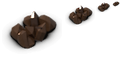
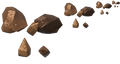
Minerais en jeu : formes blende, cassiterite, ilmenite, monazite (verdict DC) et nouvelles icones ; icone de la cassiterite refaite (pieces posees, icone_cassiterite.py)
Fusion des branches design-minerai-* et design-icone-* ; cles de direction separees
(tas, amas, amas_roches) ; check_gisement 7 OK x4, mutants 10/10.

diff --git a/tools/render/pieces/ressources/icone_cassiterite.py b/tools/render/pieces/ressources/icone_cassiterite.py
@@ -1,0 +1,231 @@
+"""ICÔNES DU MINERAI DE CASSITÉRITE, faites sur la forme C14 (lot MINERAIS, 01/11).
+
+DC (30/10, ~10 h 40) : « je viens de revoir les minerais, changez les icones mais si non c est pas mal ». La forme C14
+(gisement) est acceptée ; son icône (cellule d'icône de feuille.py : UN bloc et ses pépites soudés en une masse brune) ne
+l'était pas : à 32 px, une seule silhouette en gourde, sans jour entre les pièces, quand les icônes vanilla
+(icons/iron-ore.png, coal.png : 64 px + 3 mipmaps) montrent 3 à 5 morceaux SÉPARÉS par un jour sombre qui remplissent
+le cadre. Même démarche que les icônes de l'ilménite (icone_ilmenite.py) : pièces du gisement, mais POSÉES à la main.
+
+Pièces du gisement C14 : blocs trapus de gisement.roche (6 coupes, cassure 0,45 à 0,80, aplat 0,95, lissé 25°) et
+pépites bipyramidales de gisement.bipyramide (habitus de la cassitérite) ; matières C : brun, roux, cuir, ambre ; ciel
+spéculaire × 5 (CALIB C9 à C14). Ajouts propres à l'icône, assumés : pièces posées (jour entre elles), relief de surface
+(grain des icônes vanilla), faces au soleil plus claires que le gisement (cuir, roux) pour que l'icône ne se lise pas en
+tache sombre à 32 px.
+
+Rendu : 4 cellules (icône, puis les 3 images au sol) en UN appel de Blender, PAR LE VERROU, à 256 px par tuile, passe
+main seule ; réduction en lumière linéaire prémultipliée (fo_post.icon_strip) en 64 + 32 + 16 + 8 = 120 x 64 px.
+
+    python tools/render/with_render_lock.py -- py -3.9 tools/render/pieces/ressources/icone_cassiterite.py         --samples 128 --travail <dossier> --sortie <dossier des icônes>
+    # post-traitement seul : --post-seul ; installation dans graphics/ressources/cassiterite : --installer
+"""
+import argparse
+import hashlib
+import json
+import math
+import os
+import random
+import subprocess
+import sys
+import time
+
+HERE = os.path.dirname(os.path.abspath(__file__))
+RENDER = os.path.abspath(os.path.join(HERE, "..", ".."))
+MOD = os.path.abspath(os.path.join(RENDER, "..", ".."))
+for _p in (HERE, RENDER):
+    if _p not in sys.path:
+        sys.path.insert(0, _p)
+
+PIECE = {"name": "icone-cassiterite", "variants": {"C14": {}}, "margin_px": 32}
+PAS_IC = 6.0          # écart entre deux cellules, en tuiles
+PX = 256.0            # pixels par tuile du rendu des icônes
+GRAINE = 7414
+GROS = 1.0           # morceaux grossis (comme l'ilménite : à 32 px, le jour entre les pièces mange le cadre)
+RUGOSITE = 0.16       # éclat adamantin : reflets nets sur les arêtes
+RELIEF = 0.32
+ECART = 1.08          # écarte les positions (jour entre les pièces)
+FICHIERS = ("icone.png", "icone-1.png", "icone-2.png", "icone-3.png")
+# Matières de l'icône : couleurs de directions.MAT, faces au soleil éclaircies pour la lecture à 32 px
+MAT_BLOC = ("cassiterite_brun", "cassiterite_noir", "cassiterite_roux")
+MAT_PEP = ("cassiterite_ambre", "cassiterite_roux", "cassiterite_cuir")
+# Compositions (tuiles de jeu, y vers le sud, relatives au centre de la cellule).
+#   blocs : (x, y, taille, matière, bosse) ; bosse : None ou (angle en degrés, taille relative) d'une bosse soudée ;
+#   pepites : (x, y, longueur, largeur, inclinaison en degrés, azimut en degrés, matière).
+COMPOS = [
+    # icône : 3 blocs en quinconce, 3 pépites bipyramidales plantées entre eux
+    dict(blocs=[(0.17, 0.17, 0.30, 0, (40, 0.55)), (-0.25, -0.20, 0.26, 1, (220, 0.5)), (-0.27, 0.25, 0.21, 2, None)],
+         pepites=[(0.27, -0.25, 0.30, 0.24, 24, 20, 1), (-0.02, -0.04, 0.27, 0.22, 30, 200, 0),
+                  (0.04, 0.34, 0.22, 0.18, 34, 100, 1)]),
+    dict(blocs=[(-0.15, 0.10, 0.28, 1, (160, 0.55)), (0.26, 0.18, 0.22, 0, None), (-0.27, -0.22, 0.18, 2, None)],
+         pepites=[(0.08, -0.24, 0.28, 0.22, 26, 60, 0), (0.30, -0.10, 0.20, 0.17, 30, 250, 2)]),
+    dict(blocs=[(-0.12, 0.10, 0.27, 0, (150, 0.5)), (0.25, 0.14, 0.22, 2, None), (-0.30, -0.19, 0.17, 1, None)],
+         pepites=[(0.06, -0.25, 0.27, 0.21, 28, 300, 1), (0.34, -0.20, 0.19, 0.16, 36, 120, 0),
+                  (-0.02, 0.32, 0.20, 0.17, 32, 20, 2)]),
+    dict(blocs=[(-0.22, -0.18, 0.26, 2, (120, 0.55)), (0.26, -0.10, 0.21, 0, None)],
+         pepites=[(-0.08, 0.27, 0.27, 0.22, 25, 180, 0), (0.22, 0.26, 0.21, 0.17, 33, 330, 1),
+                  (0.03, -0.06, 0.22, 0.18, 30, 90, 2)]),
+]
+
+
+def centre(c):
+    return (PAS_IC * (c - 1.5), 0.0)
+
+
+# ------------------------------------------------------------------------------------------------
+# Blender (pièce lue par tools/render/blender/render_piece.py)
+# ------------------------------------------------------------------------------------------------
+def _matiere(S, D, nom):
+    """Matière du gisement (directions.MAT) + relief de surface par bosselage (grain des icônes vanilla)."""
+    m = D.MAT[nom]
+    mat = S.mat_metal("cas_ic_" + nom, m["color"], rough=min(m["rough"], RUGOSITE), metallic=m["met"], grain=m["grain"],
+                      grain_scale=m["gscale"], dirt=m["dirt"], dirt_distance=0.08)
+    nt = mat.node_tree
+    N, L = nt.nodes, nt.links
+    p = N["Principled BSDF"]
+    tc = N.new("ShaderNodeTexCoord")
+    nr = N.new("ShaderNodeTexNoise")
+    nr.inputs["Scale"].default_value = 44.0
+    nr.inputs["Detail"].default_value = 8.0
+    nr.inputs["Roughness"].default_value = 0.7
+    L.new(tc.outputs["Object"], nr.inputs["Vector"])
+    vo = N.new("ShaderNodeTexVoronoi")
+    vo.feature = "DISTANCE_TO_EDGE"
+    vo.inputs["Scale"].default_value = 22.0
+    L.new(tc.outputs["Object"], vo.inputs["Vector"])
+    vm = N.new("ShaderNodeMapRange")
+    vm.inputs["From Min"].default_value = 0.0
+    vm.inputs["From Max"].default_value = 0.08
+    L.new(vo.outputs["Distance"], vm.inputs["Value"])
+    ad = N.new("ShaderNodeMath")
+    ad.operation = "MULTIPLY_ADD"
+    L.new(vm.outputs["Result"], ad.inputs[0])
+    ad.inputs[1].default_value = 0.6
+    L.new(nr.outputs["Fac"], ad.inputs[2])
+    bu = N.new("ShaderNodeBump")
+    bu.inputs["Strength"].default_value = RELIEF
+    bu.inputs["Distance"].default_value = 0.012
+    L.new(ad.outputs["Value"], bu.inputs["Height"])
+    L.new(bu.outputs["Normal"], p.inputs["Normal"])
+    return mat
+
+
+def build(S, C, variant):
+    import gisement as G   # noqa: E402  (importe bpy : seulement dans Blender)
+    import directions as D  # noqa: E402
+    cle = "C14"
+    coupes, lisse = D.ROCHE_COUPES[cle], D.ROCHE_LISSE[cle]
+    aplat, cassure = D.ROCHE_APLAT[cle], D.ROCHE_CASSURE[cle]
+    mats = {nom: _matiere(S, D, nom) for nom in sorted(set(MAT_BLOC + MAT_PEP))}
+    for c, compo in enumerate(COMPOS):
+        rng = random.Random(GRAINE * 10 + c)
+        cx, cy = centre(c)
+        for i, (gx, gy, t, mi, b) in enumerate(compo["blocs"]):
+            t = t * GROS
+            gx, gy = gx * ECART, gy * ECART
+            parts = [(gx, gy, t)]
+            if b is not None:
+                a = math.radians(b[0])
+                parts.append((gx + 0.55 * t * math.cos(a), gy + 0.55 * t * math.sin(a) * 0.85, t * b[1]))
+            for j, (px, py, tt) in enumerate(parts):
+                v, f = G.roche(rng, tt, aplat=aplat, n_coupes=coupes, cassure=cassure)
+                incl = math.radians(rng.uniform(0, 14))
+                bx, by, _ = C.tile_to_blender(cx + px, cy + py)
+                vv = G._transforme(v, incl, rng.uniform(0, 2 * math.pi), bx, by, -0.25 * tt * math.sin(incl))
+                G._objet("cas_ic%d_b%d_%d" % (c, i, j), vv, f, mats[MAT_BLOC[mi]], S, lisse)
+        for k, (gx, gy, L, larg, incl, az, mi) in enumerate(compo["pepites"]):
+            gx, gy = gx * ECART, gy * ECART
+            v, f = G.bipyramide(rng, L * GROS, larg * GROS)
+            bx, by, _ = C.tile_to_blender(cx + gx, cy + gy)
+            vv = G._transforme(v, math.radians(incl), math.radians(az), bx, by, -0.02)
+            o = G._objet("cas_ic%d_p%d" % (c, k), vv, f, mats[MAT_PEP[mi]], S)
+            S.bevel(o, 0.008, 1)
+
+
+# ------------------------------------------------------------------------------------------------
+# Python système : rendu par Blender (appelé sous le verrou) et post-traitement
+# ------------------------------------------------------------------------------------------------
+BLENDER = os.environ.get("FO_BLENDER", r"C:\Users\evan2\tools\blender-5.2.2\blender.exe")
+
+
+def rendre(travail, samples):
+    os.makedirs(travail, exist_ok=True)
+    cmd = [BLENDER, "-b", "--factory-startup", "-noaudio", "--python-exit-code", "1",
+           "-P", os.path.join(RENDER, "blender", "render_piece.py"), "--",
+           "--piece", os.path.abspath(__file__), "--out", travail, "--variant", "C14", "--samples", str(samples),
+           "--layers", "main", "--margin", "32",
+           "--set", "PX_PER_UNIT_HR=%r" % PX, "--set", "SKY_GLOSSY_FACTOR=5.0"]
+    t0 = time.time()
+    p = subprocess.run(cmd, capture_output=True, text=True, encoding="utf-8", errors="replace")
+    with open(os.path.join(travail, "blender.log"), "w", encoding="utf-8") as f:
+        f.write(" ".join(cmd) + "\n" + p.stdout + "\n" + p.stderr)
+    if p.returncode != 0 or "[FO-RENDER]" not in p.stdout:
+        raise SystemExit("[FO-ICONE-CAS] ECHEC du rendu Blender, journal : %s" % travail)
+    print("[FO-ICONE-CAS] rendu : %.1f s (%d échantillons)" % (time.time() - t0, samples))
+
+
+def post(travail, sortie, fill):
+    import numpy as np
+    import fo_post as P
+    pre = os.path.join(travail, "%s-C14" % PIECE["name"])
+    with open(pre + "-render.json", encoding="utf-8") as f:
+        info = json.load(f)
+    main = np.load(pre + "-main.npy").astype(np.float64)
+    ox, oy = info["origin_px"]
+    s = int(PAS_IC * PX * 0.8)
+    sums = {}
+    os.makedirs(sortie, exist_ok=True)
+    for c, fn in enumerate(FICHIERS):
+        tx, ty = centre(c)
+        x0, y0 = int(round(ox + tx * PX - s / 2)), int(round(oy + ty * PX - s / 2))
+        cad = np.zeros((s, s, 4))
+        H, W = main.shape[:2]
+        xa, xb, ya, yb = max(0, x0), min(W, x0 + s), max(0, y0), min(H, y0 + s)
+        cad[ya - y0:yb - y0, xa - x0:xb - x0] = main[ya:yb, xa:xb]
+        sums[fn] = P.write_png(P.floor_alpha(P.icon_strip(cad, fill=fill)), os.path.join(sortie, fn))
+    print("[FO-ICONE-CAS] 4 icônes (120 x 64) dans %s" % sortie)
+    return info, sums
+
+
+def installer(travail, sortie):
+    """Copie les 4 icônes dans graphics/ressources/cassiterite et met à jour les sommes et la rubrique « icones » du
+    MANIFEST.json de la feuille (check_gisement.py les relit)."""
+    import shutil
+    dest = os.path.join(MOD, "graphics", "ressources", "cassiterite")
+    mp = os.path.join(dest, "MANIFEST.json")
+    with open(mp, encoding="utf-8") as f:
+        man = json.load(f)
+    with open(os.path.join(travail, "%s-C14-render.json" % PIECE["name"]), encoding="utf-8") as f:
+        info = json.load(f)
+    for fn in FICHIERS:
+        shutil.copyfile(os.path.join(sortie, fn), os.path.join(dest, fn))
+        with open(os.path.join(dest, fn), "rb") as f:
+            man["sha256"][fn] = hashlib.sha256(f.read()).hexdigest()
+    man["sha256"] = dict(sorted(man["sha256"].items()))
+    man["icones"] = {"rendu": "tools/render/pieces/ressources/icone_cassiterite.py (forme C14, pièces posées, relief)",
+                     "echantillons": info.get("samples"), "secondes_blender": info.get("seconds"),
+                     "px_par_tuile": PX}
+    with open(mp, "w", encoding="utf-8", newline=chr(10)) as f:
+        json.dump(man, f, indent=1, ensure_ascii=False, sort_keys=True)
+        f.write("\n")
+    print("[FO-ICONE-CAS] installées dans %s (MANIFEST.json mis à jour)" % dest)
+
+
+def main():
+    ap = argparse.ArgumentParser()
+    ap.add_argument("--travail", required=True)
+    ap.add_argument("--sortie", default=None)
+    ap.add_argument("--samples", type=int, default=128)
+    ap.add_argument("--fill", type=float, default=0.97)
+    ap.add_argument("--post-seul", action="store_true")
+    ap.add_argument("--installer", action="store_true")
+    a = ap.parse_args()
+    sortie = a.sortie or os.path.join(a.travail, "icones")
+    if a.installer:
+        installer(a.travail, sortie)
+        return
+    if not a.post_seul:
+        rendre(a.travail, a.samples)
+    post(a.travail, sortie, a.fill)
+
+
+if __name__ == "__main__":
+    main()
